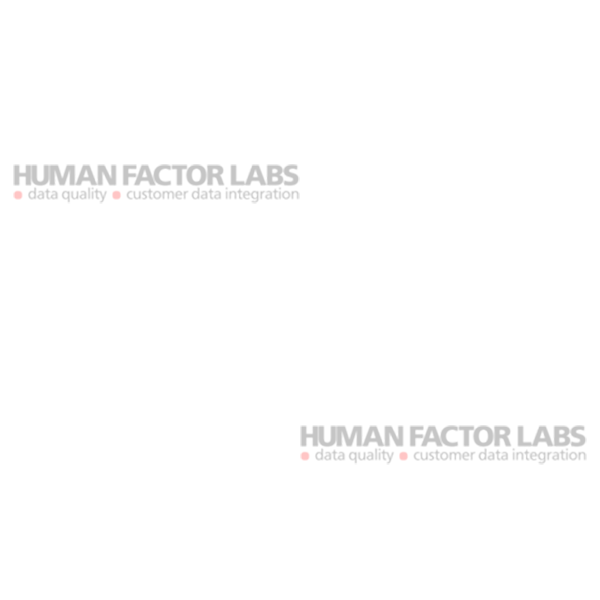
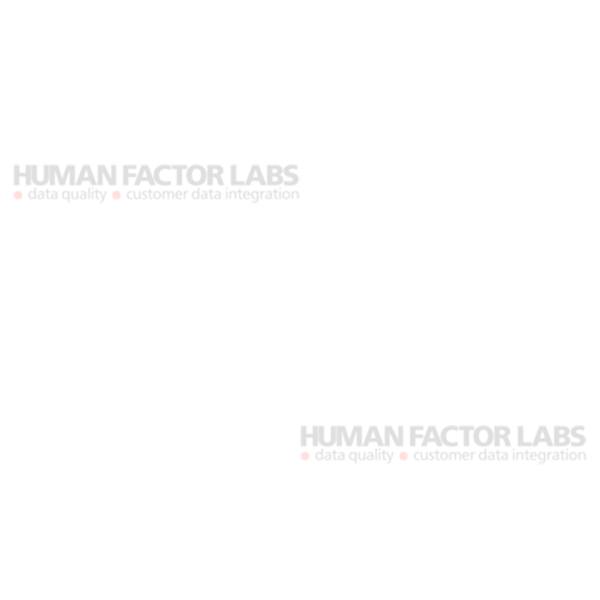
little fix

Changed region(s): [[0.48, 0.69, 0.99, 0.75], [0.0, 0.27, 0.51, 0.33]]

diff --git a/web/src/main/webapp/resources/css/andrey_cv.css b/web/src/main/webapp/resources/css/andrey_cv.css
@@ -1,19 +1,19 @@
-#sbtPage{
+#slideSbt{
     background: url("../img/andrey/sber_b.png") repeat;
-    background-size: 7%;
+    background-size: 10%;
 }
 
-#hflabsPage{
+#slideHflabs{
     background: url("../img/andrey/hflabs_b.png") repeat;
-    background-size: 15%;
+    background-size: 20%;
 }
 
-#qiwiWalletPage{
+#slideQiwiWallet{
     background: url("../img/andrey/qiwi_b.png") repeat;
-    background-size: 7%;
+    background-size: 10%;
 }
 
-#educationPage{
+#sectionEducation{
      background: url("../img/andrey/msu_b.png") repeat;
-     background-size: 7%;
+     background-size: 10%;
  }

diff --git a/web/src/main/webapp/resources/css/polina_cv.css b/web/src/main/webapp/resources/css/polina_cv.css
@@ -1,14 +1,14 @@
 #qiwiLeadPage{
     background: url("../img/polina/qiwi_b.png") repeat;
-    background-size: 7%;
+    background-size: 10%;
 }
 
-#qiwiPage{
+#slideQiwi{
     background: url("../img/polina/qiwi_b.png") repeat;
-    background-size: 7%;
+    background-size: 10%;
 }
 
 #educationPage{
     background: url("../img/andrey/msu_b.png") repeat;
-    background-size: 7%;
+    background-size: 10%;
 }
